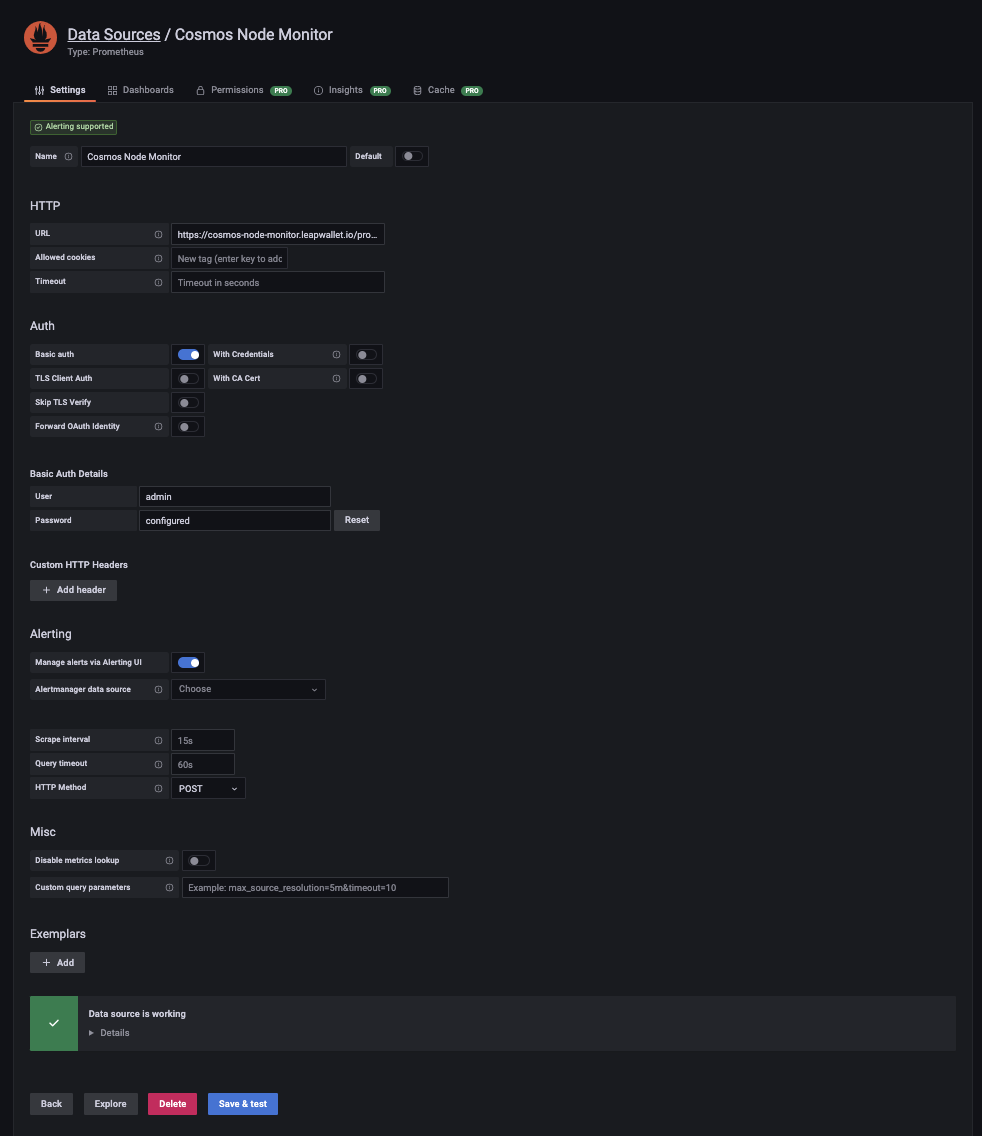
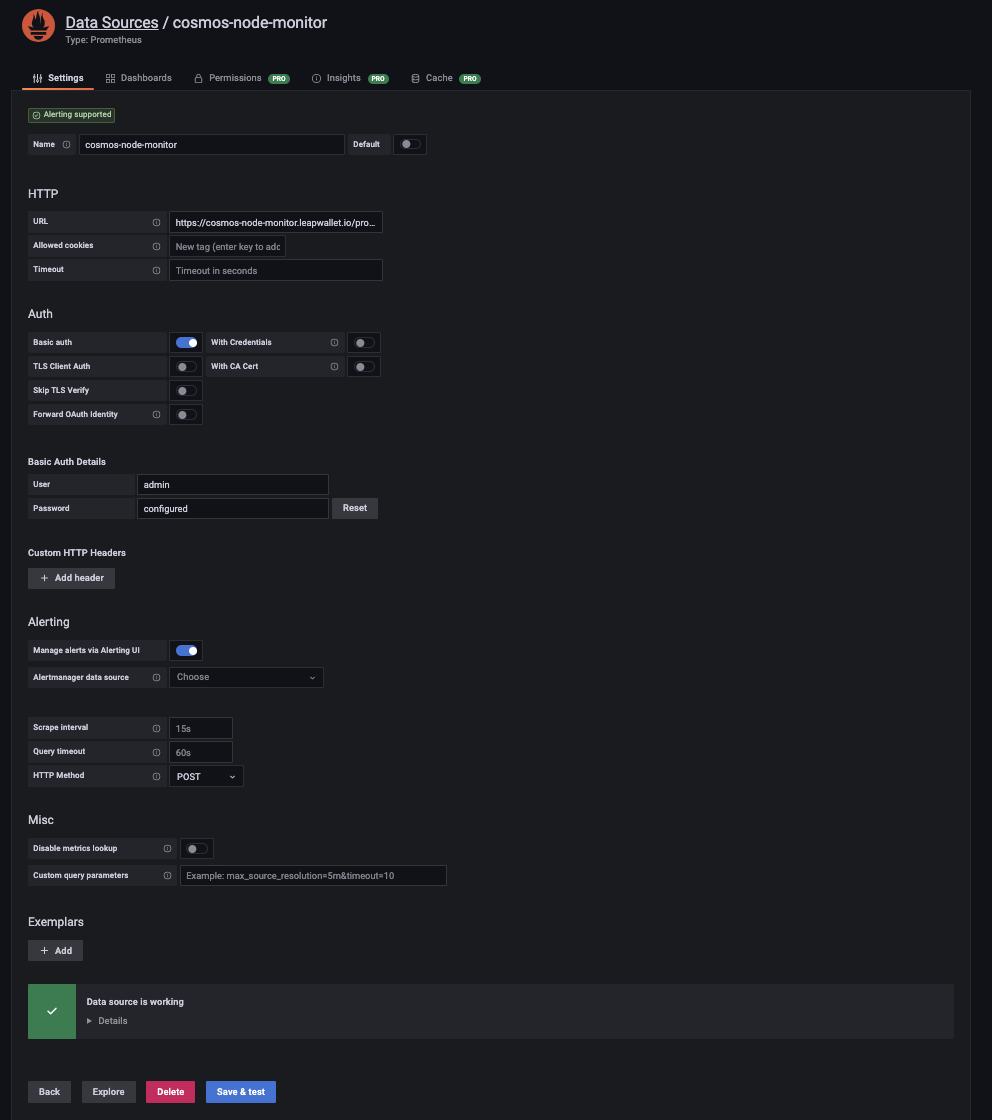
Use separate monitors for different chains

diff --git a/docs/observability/observability.md b/docs/observability/observability.md
@@ -2,10 +2,6 @@
 
 This optional but recommended section explains how to set up monitoring and alerting. We explain it by using Prometheus, connecting Prometheus to Grafana Cloud, and using PANIC. Of course, you can run Grafana yourself, use an external Prometheus server, use [Tenderduty](https://github.com/blockpane/tenderduty), etc. instead. It's assumed that you've followed the [URL Setup](../url-setup.md) doc because this doc assumes URLs that look like https://rpc-node-1.osmosis-1.example.com/blockchain-node.
 
-## First Time
-
-Only follow this section if you're setting up the monitor for the first time.
-
 1. Sign up for [Grafana Cloud](https://grafana.com/auth/sign-up/create-user).
 2. On your Grafana Cloud instance, create an [API key](https://grafana.com/docs/grafana-cloud/reference/create-api-key/)s for the Prometheus integration with the **Role** set to **MetricsPublisher**. Note down the URL, username, and password for use later on.
 3. Install Prometheus:
@@ -72,7 +68,7 @@ Only follow this section if you're setting up the monitor for the first time.
     ##########################################################
     ```
 4. Configure Prometheus using one of the following:
-    - Only follow this step if you're monitoring Horcrux:
+    - Only follow this step if you're monitoring a validator setup:
 
         ```shell
         read -P 'Enter the first sentry\'s hostname such as sentry-1.osmo-test-4.example.com: ' SENTRY_1
@@ -82,7 +78,7 @@ Only follow this section if you're setting up the monitor for the first time.
         read -P 'Enter the first cosigner\'s hostname such as cosigner-1.osmo-test-4.example.com: ' COSIGNER_1
         read -P 'Enter the first cosigner\'s hostname such as cosigner-2.osmo-test-4.example.com: ' COSIGNER_2
         read -P 'Enter the first cosigner\'s hostname such as cosigner-3.osmo-test-4.example.com: ' COSIGNER_3
-
+ 
         printf "\
         scrape_configs:
         - job_name: node-exporter-for-monitor
@@ -131,7 +127,7 @@ Only follow this section if you're setting up the monitor for the first time.
             password: $GRAFANA_PASSWORD
         " > $DIR/prometheus.yml
         ```
-    - Only follow this step if you're monitoring a full node:
+    - Only follow this step if you're not monitoring a validator setup:
 
         ```shell
         read -P 'Enter the first full node\'s hostname such as rpc-node-1.osmo-test-4.example.com: ' FULL_NODE_1
@@ -197,120 +193,9 @@ Only follow this section if you're setting up the monitor for the first time.
     ```
 6. Monitor the monitoring system:
     1. [Add](https://grafana.com/docs/grafana/latest/datasources/add-a-data-source/) a Prometheus data source in Grafana Cloud, and connect it to the monitor. For example:
-    
-        ![Data source](data-source.png)
+
+       ![Data source](data-source.png)
     2. [Create](https://grafana.com/docs/grafana/latest/alerting/alerting-rules/create-grafana-managed-rule/) a Grafana alert to notify you when the monitor is down so that you know to fix the monitor and/or manually monitor the blockchain nodes while the monitor is down. For example:
-   
-        ![Alert](alert.png)
+
+       ![Alert](alert.png)
 7. Set up [PANIC](https://github.com/SimplyVC/panic). If the website on port 3,333 doesn't open, open port 9,000, make an API call via the UI, open port 3,333 again, and wait about a minute - it should work now.
-
-## Not First Time
-
-Only follow this section if you've previously set up a monitor, and are updating it to monitor another Cosmos node.
-
-1. Edit the Prometheus config file. For example:
-
-    ```shell
-    nano /home/ubuntu/prometheus-2.37.0.linux-amd64/prometheus.yml
-    ```
-2. Add entries for the metrics endpoints of the blockchain node, and Node exporter of both the servers.
-
-   For example, if the file previously looked like:
-
-    ```yaml
-    scrape_configs:
-    
-    # Monitor
-    - job_name: node-exporter-for-monitor
-      static_configs:
-      - targets: ['localhost:9100']
-    
-    # Blockchain nodes for osmosis-1 RPC node
-    - job_name: blockchain-node-for-osmosis-1-rpc-node-1
-      static_configs:
-      - targets: [rpc-node-1.osmosis-1.example.com]
-      metrics_path: /blockchain-node
-    - job_name: blockchain-node-for-osmosis-1-rpc-node-2
-      static_configs:
-      - targets: [rpc-node-2.osmosis-1.example.com]
-      metrics_path: /blockchain-node
-    
-    # Node Exporters for osmosis-1 RPC node
-    - job_name: node-exporter-for-osmosis-1-rpc-node-1
-      static_configs:
-      - targets: [rpc-node-1.osmosis-1.example.com]
-      metrics_path: /node-exporter
-    - job_name: node-exporter-for-osmosis-1-rpc-node-2
-      static_configs:
-      - targets: [rpc-node-2.osmosis-1.example.com]
-      metrics_path: /node-exporter
-    
-    remote_write:
-    - url: https://prometheus-prod-10-prod-us-central-0.grafana.net/api/prom/push
-      basic_auth:
-        username: 986969
-        password: oop09ikiM2YxZDJjOGY5YmJlODUxMmNpoiuyt2IzZDI3YWFlNzQyZGE2ZDdjYiIsIm4iOiJzZWktdGVzdG5ldC12Ykj3
-    ```
-
-   Now, it'll look like:
-
-    ```yaml
-    scrape_configs:
-    
-    # Monitor
-    - job_name: node-exporter-for-monitor
-      static_configs:
-      - targets: ['localhost:9100']
-    
-    # Blockchain nodes for osmosis-1 RPC node
-    - job_name: blockchain-node-for-osmosis-1-rpc-node-1
-      static_configs:
-      - targets: [rpc-node-1.osmosis-1.example.com]
-      metrics_path: /blockchain-node
-    - job_name: blockchain-node-for-osmosis-1-rpc-node-2
-      static_configs:
-      - targets: [rpc-node-2.osmosis-1.example.com]
-      metrics_path: /blockchain-node
-    
-    # Blockchain nodes for cosmoshub-4 RPC node
-    - job_name: blockchain-node-for-cosmoshub-4-rpc-node-1
-      static_configs:
-      - targets: [rpc-node-1.cosmoshub-4.example.com]
-      metrics_path: /blockchain-node
-    - job_name: blockchain-node-for-cosmoshub-4-rpc-node-2
-      static_configs:
-      - targets: [rpc-node-2.cosmoshub-4.example.com]
-      metrics_path: /blockchain-node
-    
-    # Node Exporters for osmosis-1 RPC node
-    - job_name: node-exporter-for-osmosis-1-rpc-node-1
-      static_configs:
-      - targets: [rpc-node-1.osmosis-1.example.com]
-      metrics_path: /node-exporter
-    - job_name: node-exporter-for-osmosis-1-rpc-node-2
-      static_configs:
-      - targets: [rpc-node-2.osmosis-1.example.com]
-      metrics_path: /node-exporter
-    
-    # Node Exporters for cosmoshub-4 RPC node
-    - job_name: node-exporter-for-cosmoshub-4-rpc-node-1
-      static_configs:
-      - targets: [rpc-node-1.cosmoshub-4.example.com]
-      metrics_path: /node-exporter
-    - job_name: node-exporter-for-cosmoshub-4-rpc-node-2
-      static_configs:
-      - targets: [rpc-node-2.cosmoshub-4.example.com]
-      metrics_path: /node-exporter
-    
-    remote_write:
-    - url: https://prometheus-prod-10-prod-us-central-0.grafana.net/api/prom/push
-      basic_auth:
-        username: 986969
-        password: oop09ikiM2YxZDJjOGY5YmJlODUxMmNpoiuyt2IzZDI3YWFlNzQyZGE2ZDdjYiIsIm4iOiJzZWktdGVzdG5ldC12Ykj3
-    ```
-3. Apply changes:
-
-    ```shell
-    sudo systemctl restart prometheus
-    ```
-4. Update the PANIC configuration to monitor the blockchain node you just set up.

diff --git a/docs/url-setup.md b/docs/url-setup.md
@@ -1,8 +1,6 @@
 # URL Setup
 
-This optional but recommended section explains how to set up the DNS and TLS certificate. We explain it by using Cloudflare for the DNS, and Caddy for the TLS certificate. Of course, you can use different tools such as Google Domains and Traefik instead.
-
-This section explains how to secure the REST API in case you're running a sentry monitored by PANIC, and have enabled the REST API as a result. If you're not going to follow this section, then be sure to prevent IP addresses other than the server itself from accessing the REST API.
+This section explains how to set up the DNS and TLS certificate. We explain it by using Cloudflare for the DNS, and Caddy for the TLS certificate. Of course, you can use different tools such as Google Domains and Traefik instead.
 
 ## DNS
 
@@ -10,19 +8,19 @@ This section explains how to use your domain name such as example.com instead of
 1. Go to your website's DNS section on Cloudflare.
 2. Click **Add record**.
 3. Set the **Type** field to **A**.
-4. Set the **Name (required)** field. We recommend using the format `<SERVER>.<DOMAIN>` for monitors, and `<SERVER>.<CHAIN>.<DOMAIN>` for other servers; `<SERVER>` is the server provisioned such as `archive-node-1`, `<CHAIN>` is the chain name such as `osmo-test-4`, and `<DOMAIN>` is your domain name such as `example.com`. We recommend you use the following `<SERVER>` names:
+4. Set the **Name (required)** field. We recommend using the format `<SERVER>.<CHAIN>.<DOMAIN>` for servers; `<SERVER>` is the server provisioned such as `archive-node-1`, `<CHAIN>` is the chain name such as `osmo-test-4`, and `<DOMAIN>` is your domain name such as `example.com`. We recommend you use the following `<SERVER>` names:
     - `sentry-1`, `sentry-2`, and `sentry-3` for the three sentry servers.
     - `cosigner-1`, `cosigner-2`, and `cosigner-3` for the three cosigner servers.
     - `archive-node-1` and `archive-node-2` for the two archive node servers.
     - `rpc-node-1` and `rpc-node-2` for the two RPC node servers.
-    - `cosmos-node-monitor` for the monitor server.
+    - `monitor` for the monitor server.
 5. Set the **IPv4 address (required)** field to your server's IP address.
 6. Set the **Proxy status** to **DNS only**.
 7. Set the **TTL** to **Auto**.
 
 ## TLS Certificate
 
-This section explains how to set up the TLS certificate, and URLs for each API that you want to expose. There's a reference to Prometheus which is a monitoring system that you have the option to set up later on.
+This section explains how to set up the TLS certificate, and URLs for each API that you want to expose. There's a reference to Prometheus which is a monitoring system that you will set up later on.
 
 1. Install Caddy:
 
@@ -177,6 +175,7 @@ The following URLs will now be available, where `<DOMAIN>` is the same as the do
 | Blockchain node's metrics | Full nodes                   | `https://<DOMAIN>/blockchain-node`   | For use by PANIC.                                |
 |       Cosigner port       | Cosigners                    | `https://<DOMAIN>/signer`            | For use by the respective sentry.                |
 |  Private validator port   | Sentries                     | `https://<DOMAIN>/private-validator` | For use by the respective cosigner.              |
-|           PANIC           |Monitor| `https://<IP>:3333`                  | Cannot be accessed via the reverse proxy server. |
+|         PANIC UI          |Monitor| `https://<IP>:3333`                  | Cannot be accessed via the reverse proxy server. |
+|      PANIC API docs       |Monitor| `https://<IP>:9000`                  | Cannot be accessed via the reverse proxy server. |
 
 For example, if you're running a Juno `juno-1` archive node, then you can query a transaction using the REST API base URL of `https://<DOMAIN>/rest-api` by opening `https://<DOMAIN>/rest-api/cosmos/tx/v1beta1/txs/8E9623B92C4501432EFDE993E6077B1FD021613CE1980859A1B4F0BB374BC1A9` in a browser.

diff --git a/docs/firewall.md b/docs/firewall.md
@@ -6,8 +6,8 @@ This document explains how to set up the firewall for each type of server. Regar
 
 - Allow SSH connections over TCP on port 22 from your IP address. This is to allow you to access the server.
 - Allow HTTP connections on port 80, and HTTPS connections on port 443. This is for the reverse proxy server which deals with things such as the metrics endpoints.
-- Allow TCP connections on port 26656 from any IP address. This is to allow other nodes to sync with yours.
-- Allow TCP connections on port 1234 to each cosigner. This is to allow the cosigner to access the private validator port.
+- Allow TCP connections on port 26,656 from any IP address. This is to allow other nodes to sync with yours.
+- Allow TCP connections on port 1,234 to each cosigner. This is to allow the cosigner to access the private validator port.
 
 If you're using something like AWS, then you can configure the firewall using a GUI. Otherwise, here's how to set up the firewall using the CLI:
 
@@ -138,11 +138,11 @@ sudo ufw enable
 sudo ufw status
 ```
 
-## Monitors
+## Monitor
 
 - Allow SSH connections over TCP on port 22 from your IP address. This is to allow you to access the server.
 - Allow HTTP connections on port 80, and HTTPS connections on port 443. This is for the reverse proxy server which deals with things such as the metrics endpoints.
-- Allow HTTPS connections on ports 3333 from your IP address. This is to allow you to access PANIC.
+- Allow HTTPS connections on ports 3,333 and 9,000 from your IP address. This is to allow you to access PANIC.
 
 If you're using something like AWS, then you can configure the firewall using a GUI. Otherwise, here's how to set up the firewall using the CLI:
 
@@ -173,7 +173,7 @@ sudo ufw allow https
 ## BEGIN: Enable PANIC ##
 #########################
 
-sudo ufw allow from $IP_ADDRESS proto tcp to any port 3333
+sudo ufw allow from $IP_ADDRESS proto tcp to any port 3333,9000
 
 #######################
 ## END: Enable PANIC ##
@@ -187,7 +187,7 @@ sudo ufw status
 
 - Allow SSH connections over TCP on port 22 from your IP address. This is to allow you to access the server.
 - Allow HTTP connections on port 80, and HTTPS connections on port 443. This is for the reverse proxy server which deals with things such as the metrics endpoints.
-- Allow TCP connections on port 26656 from any IP address. This is to allow other nodes to sync with yours.
+- Allow TCP connections on port 26,656 from any IP address. This is to allow other nodes to sync with yours.
 
 If you're using something like AWS, then you can configure the firewall using a GUI. Otherwise, here's how to set up the firewall using the CLI:
 

diff --git a/docs/concepts.md b/docs/concepts.md
@@ -7,9 +7,9 @@ Prior to using this repo, it's recommended that you learn the following:
 - [Tendermint](https://docs.tendermint.com/)
 - [Cosmos SDK](https://docs.cosmos.network/)
 - (Required if you're setting up a validator.) [Horcrux](https://github.com/strangelove-ventures/horcrux)
-- (Required if you want to monitor your blockchain node.) [PANIC](https://github.com/SimplyVC/panic)
-- (Required if you want to monitor your blockchain node.) [Prometheus](https://prometheus.io/)
-- (Required if you want to monitor your blockchain node.) [Grafana](https://grafana.com/docs/grafana/latest/)
+- [PANIC](https://github.com/SimplyVC/panic)
+- [Prometheus](https://prometheus.io/)
+- [Grafana](https://grafana.com/docs/grafana/latest/)
 - (Optional) [Caddy](https://caddyserver.com/)
 
 ## PANIC Monitoring and Alerting for Blockchains
@@ -19,6 +19,8 @@ _PANIC Monitoring and Alerting for Blockchains_ is abbreviated as _PANIC_.
 ## Validator Node
 
 _Validator node_ is abbreviated as _validator_.
+
+Validators will be jailed if they double sign. Double signing can only occur if two instances of a validator using the same private key are active at the same time. You needn't worry about a validator double signing if it restarts during a block because it locally stores which blocks it's processed.
 
 ## Full Node
 
@@ -31,8 +33,6 @@ _Sentry node_ is abbreviated as _sentry_. A sentry is a full node that connects 
 ## Monitor
 
 By _monitor_, we mean a server that runs monitoring and alerting software such as PANIC and Prometheus.
-
-Validators will be jailed if they double sign. Double signing can only occur if two instances of a validator using the same private key are active at the same time. You needn't worry about a validator double signing if it restarts during a block because it locally stores which blocks it's processed.
 
 ## Blockchain Node
 

diff --git a/docs/overview.md b/docs/overview.md
@@ -8,8 +8,6 @@ Using a serverless solution such as AWS Fargate would've been more scalable sinc
 
 There are no benefits (no cost savings, etc.) to be gained from running anything other than a single blockchain node on a computer. Therefore, for simplicity, this repo assumes that the computer used to run the blockchain node will not run any other software (including other blockchain nodes).
 
-The same monitor can be used for every blockchain node that you set up. So, even though you'll set up separate servers for sentries, cosigners, full nodes, and/or validators, the same two servers used to monitor the first blockchain node can and should be used for subsequent blockchain nodes you set up.
-
 Here's how to set up the hardware:
 - We recommend using a Linux OS; Ubuntu specifically. Since this repo uses Ubuntu commands, you'll have to modify them if you're using a different OS.
 - Use an SSD (preferably NVMe) for storage. Here are the storage size requirements for different servers:
